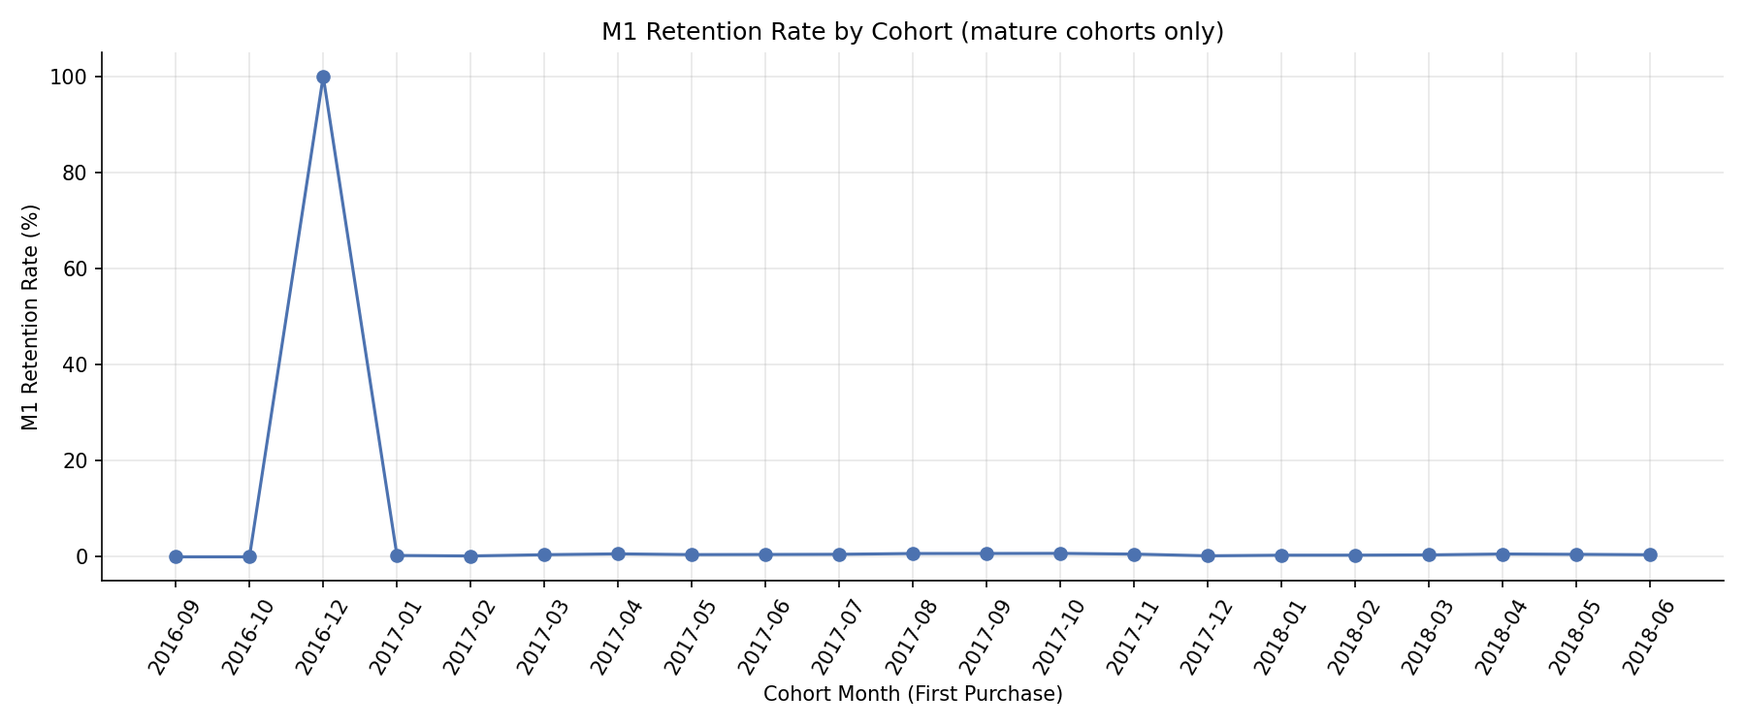
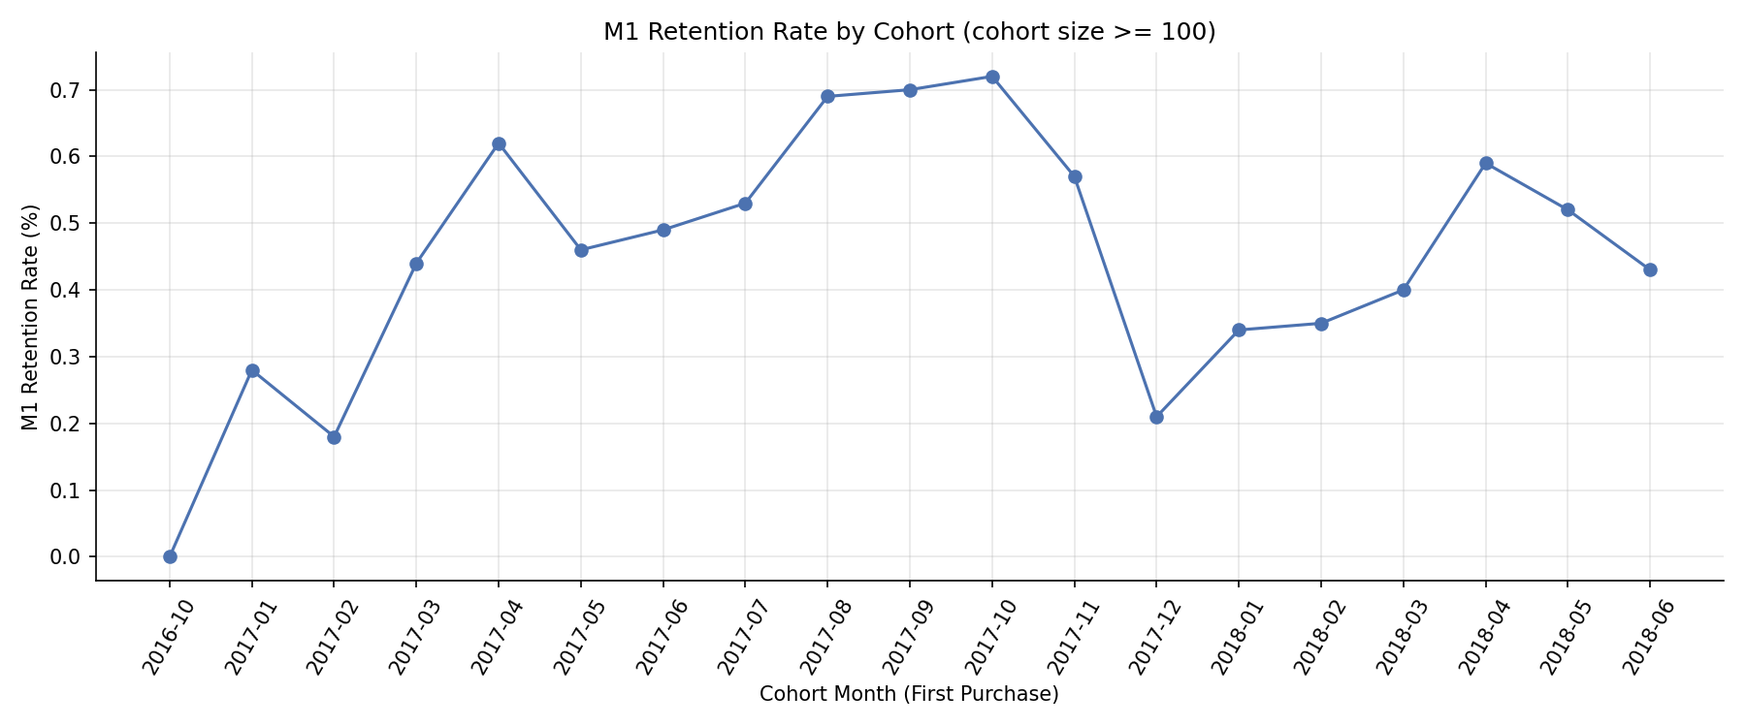
fix: align release artifacts and remove exposed credential

diff --git a/run_pipeline.py b/run_pipeline.py
@@ -64,7 +64,7 @@ def _run_sql_files(*files: str) -> None:
 
 
 def run_build_order_mart() -> None:
-    """阶段 4：构建三张聚合表与订单宽表。"""
+    """构建三张订单级聚合表与订单宽表。"""
     _run_sql_files(
         "04_order_item_aggregation.sql",
         "05_payment_aggregation.sql",
@@ -74,17 +74,17 @@ def run_build_order_mart() -> None:
 
 
 def run_build_customer_mart() -> None:
-    """阶段 5：构建用户粒度特征宽表（依赖阶段 4）。"""
+    """基于订单宽表构建客户粒度特征宽表。"""
     _run_sql_files("08_build_customer_feature_mart.sql")
 
 
 def run_segmentation() -> None:
-    """阶段 6：RFM 与多维标签分层（依赖阶段 5）。"""
+    """基于客户特征构建 RFM 与多维标签分层。"""
     _run_sql_files("09_customer_segmentation.sql")
 
 
 def run_cohort() -> None:
-    """阶段 7：Cohort 留存（SQL 计算 + Python 导出 CSV 与热力图）。"""
+    """计算 Cohort 留存，并导出 CSV 与热力图。"""
     _run_sql_files("10_cohort_retention.sql")
     from src import analyze_cohort
 
@@ -94,7 +94,7 @@ def run_cohort() -> None:
 
 
 def run_delivery() -> None:
-    """阶段 8：履约体验分析（SQL 聚合 + Python 统计检验）。"""
+    """执行履约体验聚合与统计检验。"""
     _run_sql_files("11_delivery_experience.sql")
     from src import analyze_delivery
 
@@ -113,7 +113,7 @@ def run_repeat_purchase_90d() -> None:
 
 
 def run_campaign() -> None:
-    """阶段 9：营销人群名单（SQL 规则级联 + Python 导出 CSV）。"""
+    """按规则级联构建营销人群名单并导出 CSV。"""
     _run_sql_files("12_campaign_target_list.sql")
     from src import export_outputs
 
@@ -123,7 +123,7 @@ def run_campaign() -> None:
 
 
 def run_export() -> None:
-    """阶段 10：12 张 Python 图表 + 高价值流失名单 + Tableau 数据。"""
+    """导出 Python 图表、高价值流失名单和 Tableau 数据。"""
     from src import build_visuals, export_outputs
 
     rc = export_outputs.main(["--churn", "--tableau"])
@@ -143,19 +143,18 @@ def run_validate_data() -> None:
     if rc != 0:
         raise RuntimeError("validate_data 交叉验证存在失败项")
 
-# 阶段注册表：名称 -> 执行函数。尚未实现的阶段值为 None，运行时会明确报错，
-# 而不是静默跳过或产出虚构结果。
+# 阶段注册表：名称 -> 执行函数。尚未实现的阶段值为 None，运行时明确报错。
 STAGE_REGISTRY: dict[str, Callable[[], None] | None] = {
-    "load_data": lambda: load_data.main(),      # 阶段 3：CSV → MySQL 导入
+    "load_data": lambda: load_data.main(),        # CSV → MySQL 导入
     "validate_data": run_validate_data,           # 质量检查 + 交叉验证
-    "build_order_mart": run_build_order_mart,    # 阶段 4：订单粒度宽表
-    "build_customer_mart": run_build_customer_mart,  # 阶段 5：用户粒度宽表
-    "segmentation": run_segmentation,              # 阶段 6：用户标签与生命周期
-    "cohort": run_cohort,                          # 阶段 7：Cohort 留存
-    "delivery": run_delivery,                      # 阶段 8：履约体验分析
+    "build_order_mart": run_build_order_mart,      # 订单粒度宽表
+    "build_customer_mart": run_build_customer_mart,  # 用户粒度宽表
+    "segmentation": run_segmentation,              # 用户标签与生命周期
+    "cohort": run_cohort,                          # Cohort 留存
+    "delivery": run_delivery,                      # 履约体验分析
     "repeat_purchase_90d": run_repeat_purchase_90d,  # 首购后 90 天二购驱动
-    "campaign": run_campaign,                      # 阶段 9：营销人群名单
-    "export": run_export,                          # 阶段 10：图表与 Tableau 输出
+    "campaign": run_campaign,                      # 营销人群名单
+    "export": run_export,                          # 图表与 Tableau 输出
 }
 
 
@@ -227,9 +226,7 @@ def run_stage(stage_name: str) -> int:
         return 2
     func = STAGE_REGISTRY[stage_name]
     if func is None:
-        logger.error(
-            "阶段 %s 尚未实现。本项目按阶段推进，不生成任何虚构结果。", stage_name
-        )
+        logger.error("阶段 %s 尚未实现。", stage_name)
         return 1
     logger.info("开始执行阶段：%s", stage_name)
     func()

diff --git a/src/utils.py b/src/utils.py
@@ -13,12 +13,12 @@ from __future__ import annotations
 from datetime import date, datetime, timedelta
 from typing import Any, Sequence
 
-# ---------- 生命周期阈值（Brief 10.3 初始规则，未调整） ----------
+# ---------- 生命周期规则阈值 ----------
 NEW_CUSTOMER_RECENCY_MAX = 30
 ACTIVE_RECENCY_MAX = 90
 AT_RISK_RECENCY_MAX = 180
 
-# 低评分阈值（Brief 8.4）
+# 低评分阈值
 LOW_SCORE_THRESHOLD = 2
 
 
@@ -55,7 +55,7 @@ def classify_lifecycle(recency_days: int, order_count: int) -> str:
 
 
 def assign_value_segment(total_payment: float, p20: float, p80: float) -> str:
-    """价值标签（Brief 10.2）：>= p80 高价值，>= p20 中价值，否则低价值。"""
+    """价值标签：>= p80 高价值，>= p20 中价值，否则低价值。"""
     if total_payment >= p80:
         return "high_value"
     if total_payment >= p20:
@@ -90,7 +90,7 @@ def is_delayed(delivered_date: Any, estimated_date: Any) -> bool | None:
 
 
 def classify_delay_bucket(delayed: bool | None, delay_days: int | None) -> str | None:
-    """延迟分段（阶段 8 口径，含当天超时归入 1-3 天档）。"""
+    """延迟分段；当天超时归入 1-3 天档。"""
     if delayed is None:
         return None
     if not delayed:
@@ -160,7 +160,7 @@ def campaign_rule_hit(
 
 
 def aggregate_order_items(prices: Sequence[float], freights: Sequence[float]) -> dict[str, float]:
-    """订单商品行聚合（阶段 4 口径）：goods/freight/item 三个金额。"""
+    """订单商品行聚合：goods/freight/item 三个金额。"""
     if len(prices) != len(freights):
         raise ValueError("prices 与 freights 长度不一致")
     goods = round(sum(prices), 2)
@@ -173,5 +173,5 @@ def aggregate_order_items(prices: Sequence[float], freights: Sequence[float]) ->
 
 
 def derive_analysis_date(max_valid_purchase_date: Any) -> date:
-    """analysis_date = 最大有效购买日期 + 1 天（Brief 3.1）。"""
+    """analysis_date = 最大有效购买日期 + 1 天。"""
     return to_date(max_valid_purchase_date) + timedelta(days=1)

diff --git a/src/build_visuals.py b/src/build_visuals.py
@@ -1,7 +1,7 @@
-"""Python 图表生成模块（Brief 第 15 节要求的 12 张图）。
+"""Python 核心分析图表生成模块（图 01–12）。
 
 口径约束：
-- 所有数值直接来自 MySQL 各阶段产出表，与 SQL 口径一致，不使用虚构数据；
+- 所有数值读取 MySQL 建模产出表，与 SQL 指标口径一致；
 - 图表文字使用英文（避免 matplotlib 中文字体缺失），说明性文字留在 README；
 - 图片统一保存至 outputs/figures/。
 
@@ -173,7 +173,8 @@ def fig05_segment_distribution(config: dict, out_dir: Path) -> None:
     df["label"] = df["final_segment"].map(name_map)
     fig, ax = plt.subplots(figsize=(10, 5.5))
     ax.barh(df["label"][::-1], df["cnt"][::-1], color="#4c72b0")
-    ax.set_title("Final Customer Segment Distribution (93,358 customers)")
+    customer_count = int(df["cnt"].sum())
+    ax.set_title(f"Final Customer Segment Distribution ({customer_count:,} customers)")
     ax.set_xlabel("Customer Count")
     for i, v in enumerate(df["cnt"][::-1]):
         ax.text(v, i, f" {v:,}", va="center", fontsize=9)
@@ -193,7 +194,8 @@ def fig07_m1_trend(config: dict, out_dir: Path) -> None:
     df = q(
         config,
         "SELECT cohort_month, ROUND(retention_rate * 100, 2) AS m1_retention_pct, cohort_size "
-        "FROM cohort_retention_long WHERE month_index = 1 ORDER BY cohort_month",
+        "FROM cohort_retention_long "
+        "WHERE month_index = 1 AND cohort_size >= 100 ORDER BY cohort_month",
     )
     fig, ax = plt.subplots(figsize=(12, 5))
     ax.plot(
@@ -202,7 +204,7 @@ def fig07_m1_trend(config: dict, out_dir: Path) -> None:
         marker="o",
         color="#4c72b0",
     )
-    ax.set_title("M1 Retention Rate by Cohort (mature cohorts only)")
+    ax.set_title("M1 Retention Rate by Cohort (cohort size >= 100)")
     ax.set_xlabel("Cohort Month (First Purchase)")
     ax.set_ylabel("M1 Retention Rate (%)")
     ax.tick_params(axis="x", rotation=60)

diff --git a/src/export_outputs.py b/src/export_outputs.py
@@ -1,15 +1,10 @@
 """分析结果导出模块。
 
-阶段 9 职责：
-1. 导出营销人群名单 mart_campaign_target_list 为 CSV；
-2. 生成模拟触达任务表（明确标注 SIMULATED，仅演示排期，
-   本项目未实现真实触达系统——Brief 第 12 节约束）。
-
-后续阶段 10 将在本模块继续扩展图表与 Tableau 数据导出。
-阶段 10 职责：
-3. 导出高价值流失客户名单（Brief 11.3）；
-4. 导出 Tableau 汇总数据：中间表进入本地目录，最终展示表进入 outputs/tableau/；
-5. 客户级名单与模拟任务统一进入 outputs/local/，不提交到 GitHub。
+职责：
+1. 导出营销人群名单和高价值流失客户名单；
+2. 生成明确标注为 SIMULATED 的演示排期，不代表真实触达；
+3. 导出 Tableau 汇总数据：中间表进入本地目录，最终展示表进入 outputs/tableau/；
+4. 客户级名单与模拟任务统一写入 outputs/local/。
 
 使用方式：
     python -m src.export_outputs --campaign
@@ -183,7 +178,7 @@ def export_simulated_tasks(config: dict) -> Path:
 
 
 def export_high_value_churned(config: dict) -> Path:
-    """导出高价值流失客户名单（Brief 11.3）并输出汇总指标。"""
+    """导出高价值流失客户名单并输出汇总指标。"""
     engine = _get_engine(config)
     try:
         with engine.connect() as conn:

diff --git a/src/analyze_delivery.py b/src/analyze_delivery.py
@@ -6,11 +6,11 @@
 3. 卡方检验：延迟与否 × 低评分与否的关联性；
 4. Mann–Whitney U 检验：准时组与延迟组评分分布差异（评分为有序分类，
    不满足正态假设，故用非参数检验）；
-5. 控制类别/地区/订单金额的逻辑回归（Brief 11.4 可选项）：
-   验证排除混淆后延迟与低评分的关联是否依然存在；
+5. 控制类别、地区与订单金额的逻辑回归：
+   检查控制已观测变量后延迟与低评分的关联是否依然存在；
 6. 导出 outputs/tables/delivery_experience_summary.csv。
 
-结论表述约束（Brief 11.4）：
+结论表述约束：
 只能说"配送延迟与较低评分显著相关"，不得断言因果——
 观察性数据无法排除混淆因素（如偏远地区同时导致延迟与商品结构差异）。
 

diff --git a/src/load_data.py b/src/load_data.py
@@ -7,7 +7,7 @@
 4. 导入完成后输出行数校验。
 
 导入策略：
-- 使用 LOAD DATA LOCAL INFILE（速度最快）；
+- 当前入口使用 pandas 解析 CSV，并通过 executemany 分批写入；
 - translation.csv 表头无引号（其余 8 个有引号），分别处理；
 - order_items / order_payments 存在一单多行，不做去重，由后续 SQL 聚合。
 

diff --git a/src/validate_data.py b/src/validate_data.py
@@ -1,4 +1,4 @@
-"""SQL × Python 交叉验证模块（Brief 16.3）。
+"""SQL × Python 交叉验证模块。
 
 对 11 个关键指标分别用 SQL 与 Python（pandas）独立计算并比对：
     总客户数、有效订单数、一次性购买用户占比、复购率、总支付金额、

diff --git a/docs/data_quality_report.md b/docs/data_quality_report.md
@@ -6,7 +6,7 @@
 ## 执行说明
 
 ```bash
-mysql -u root -pyour_mysql_password olist_ecommerce < sql/03_data_quality_checks.sql
+mysql -u your_mysql_user -p olist_ecommerce < sql/03_data_quality_checks.sql
 ```
 
 ---
@@ -19,7 +19,7 @@ mysql -u root -pyour_mysql_password olist_ecommerce < sql/03_data_quality_checks
 | orders | 99,441 | 99,441 | ✓ 完全一致 |
 | order_items | 112,650 | 112,650 | ✓ 完全一致 |
 | order_payments | 103,886 | 103,886 | ✓ 完全一致 |
-| order_reviews | 98,410 | 99,224（实际记录数） | CSV 物理行数 104,719 被评价文本内嵌换行符抬高；实际 789 个 review_id 各出现 2 次（814 条多余行），INSERT IGNORE 跳过 |
+| order_reviews | 98,410 | 99,224（实际记录数） | CSV 物理行数 104,719 被评价文本内嵌换行符抬高；789 个重复 review_id 中，764 个出现 2 次、25 个出现 3 次，共 814 条多余记录，INSERT IGNORE 跳过 |
 | products | 32,951 | 32,951 | ✓ 完全一致 |
 | sellers | 3,095 | 3,095 | ✓ 完全一致 |
 | geolocation | 1,000,163 | 1,000,163 | ✓ 完全一致 |
@@ -36,9 +36,9 @@ mysql -u root -pyour_mysql_password olist_ecommerce < sql/03_data_quality_checks
 | A3 | sellers.seller_id 唯一性 | 3,095 | 3,095 | 0 | 无需处理 | 否 |
 | A4 | customers.customer_id 唯一性 | 99,441 | 99,441 | 0 | 无需处理 | 否 |
 | A5 | customer_unique_id ↔ customer_id 多对一（复购客户）| 99,441 | 96,096 | 2,997 个真实客户有复购记录（产生 3,345 个多余 customer_id） | 正常现象，复购识别核心依据 | 否 |
-| A6 | reviews.review_id 唯一性（导入后） | 98,410 | 98,410 | 0 | CSV 中 789 个 review_id 各出现 2 次（同一条评价挂到两个订单），导入时 INSERT IGNORE 保留首条 | 否 |
+| A6 | reviews.review_id 唯一性（导入后） | 98,410 | 98,410 | 0 | CSV 中 789 个 review_id 重复（764 个出现 2 次、25 个出现 3 次），导入时 INSERT IGNORE 保留首条 | 否 |
 
-**A1-A6 口径说明**：A5 为正常业务现象（同一真实客户多次下单生成多个 customer_id）；真实复购客户 2,997 人（占 96,096 个客户的 3.12%），3,345 为多余 customer_id 数（一人下 3 单贡献 2 个多余 ID），两者不可混淆。A6 发现 789 个 review_id 各关联两个不同订单：经核实每对除 order_id 外所有字段完全一致、100% 属同一真实客户、98.5% 两单购买时间相差≤30天，判定为同一评价问卷被平台关联到多笔订单（非用户重复提交，因为重复提交会产生不同 review_id 与时间戳）；导入时 INSERT IGNORE 保留首条，被丢弃的 814 行已留档至 `data/interim/dropped_duplicate_reviews.csv` 供审计。另注意：CSV 物理行数（104,719）不等于记录数（99,224），因为部分评价文本含内嵌换行符，统计行数时必须用 CSV 解析器而非 wc -l。
+**A1-A6 口径说明**：A5 为正常业务现象（同一真实客户多次下单生成多个 customer_id）；真实复购客户 2,997 人（占 96,096 个客户的 3.12%），3,345 为多余 customer_id 数（一人下 3 单贡献 2 个多余 ID），两者不可混淆。A6 发现 789 个重复 review_id：764 个出现 2 次、25 个出现 3 次，共 814 条多余记录。重复组除 order_id 外字段一致，且关联至同一 customer_unique_id；该模式与同一评价问卷关联多笔订单的解释相容，但不能据此确认平台内部机制。导入时 INSERT IGNORE 保留每个 review_id 的首条记录，被丢弃的 814 行已留档至 `data/interim/dropped_duplicate_reviews.csv` 供审计。另注意：CSV 物理行数（104,719）不等于记录数（99,224），因为部分评价文本含内嵌换行符，统计行数时必须用 CSV 解析器而非 wc -l。
 
 ---
 
@@ -117,9 +117,9 @@ mysql -u root -pyour_mysql_password olist_ecommerce < sql/03_data_quality_checks
 | --- | --- | --- | --- | --- | --- | --- |
 | E1 | order_items.price <= 0 | 112,650 | 0 | 0.00% | 无需处理 | 是 |
 | E2 | order_items.freight_value < 0 | 112,650 | 0 | 0.00% | 无需处理 | 是 |
-| E3 | payments.payment_value <= 0 | 103,886 | 9 | 0.01% | 排除 9 条后统计 | 否 |
+| E3 | payments.payment_value <= 0 | 103,886 | 9 | 0.01% | 保留并记录；当前支付聚合未额外过滤（0 值不改变金额合计） | 否 |
 | E4 | payments.payment_installments < 0 | 103,886 | 0 | 0.00% | 无需处理 | 否 |
-| E5 | products.product_weight_g <= 0 | 32,949 | 4 | 0.01% | 排除 4 件后统计 | 否 |
+| E5 | products.product_weight_g <= 0 | 32,949 | 4 | 0.01% | 保留并记录；商品重量不进入核心分析 | 否 |
 
 ---
 
@@ -134,7 +134,7 @@ mysql -u root -pyour_mysql_password olist_ecommerce < sql/03_data_quality_checks
 | F5 | order_items.product_id → products（商品无维度） | 112,650 | 0 | 0.00% | 无需处理 | 否 |
 | F6 | products.category 无翻译 | 32,951 | 13 | 0.04% | 保留原葡萄牙语类别名 | 否 |
 
-**关联完整性结论**：全部 9 张表关联完整性为 100%，无孤立记录。
+**关联完整性结论**：F1–F5 的核心订单、客户、商品及评价关联均无孤立记录；F6 另有 13 个商品类别没有英文翻译，按规则保留原葡萄牙语类别名。
 
 ---
 
@@ -155,19 +155,18 @@ mysql -u root -pyour_mysql_password olist_ecommerce < sql/03_data_quality_checks
 
 ### ✓ 通过项
 - 全部主键唯一性（orders、products、sellers、customers、reviews 均无重复）
-- 关联完整性 100%（无孤立记录）
-- 全部金额字段无负值/零值异常（除 9 条支付金额异常，已排除）
-- 时间逻辑整体正常（99.98% 的 delivered 订单履约链路无误）
+- F1–F5 核心关联无孤立记录；F6 有 13 个商品类别缺少英文翻译
+- 商品价格与运费没有非正/负值异常；9 条非正支付记录保留并记录
+- D1、D4、D5 未发现时间倒挂；D2 有 1,350 条（1.40%）、D3 有 23 条（0.02%）异常并分别记录
 
 ### ⚠ 需关注项
 - **D2 时间链路异常**：1,350 条 delivered 订单审批时间晚于交付承运商（1.40%），但不影响 delivery_days/delay_days（这两个指标不用审批/承运商时间），仅在文档记录
-- **review_id 重复**：789 个评价问卷各被关联到同一客户的两笔订单，INSERT IGNORE 保留首条，丢弃行已留档审计；另有 243 个订单存在同单 2 条评价（取最高分处理）
+- **review_id 重复**：789 个重复 ID 中，764 个出现 2 次、25 个出现 3 次；INSERT IGNORE 保留首条，814 条多余记录已留档审计；另有 243 个订单存在同单 2 条评价（取最高分处理）
 - **A5 一次性购买比例高**：96,096 个真实客户中仅 2,997 人有复购（3.12% 复购率），需在 RFM 分析中特别处理
 
 ### 数据质量结论
 
-> 整体数据质量良好，9 张表关联完整性为 100%，核心分析所需的 delivered 订单有 96,478 笔，
-> 导入后的主键唯一性与关联完整性检查通过，质量检查记录为订单宽表构建提供依据。
+> 整体数据质量良好，核心订单、客户、商品和评价关联无孤立记录；13 个商品类别缺少英文翻译并按规则保留原类别名。核心分析所需的 delivered 订单有 96,478 笔，导入后的主键唯一性检查通过，质量检查记录为订单宽表构建提供依据。
 
 ---
 
@@ -180,5 +179,5 @@ mysql -u root -pyour_mysql_password olist_ecommerce < sql/03_data_quality_checks
 | 复购分析基于 customer_unique_id | customer_id 是订单级标识，同一客户多单会生成多个 ID | 全部用户分层指标 |
 | D2/D3 时间链路异常不排除 | delivery_days/delay_days 不使用审批/承运商时间，1,350+23 条异常订单签收与预计时间完整，不影响核心延迟指标；仅在文档记录，供后续处理时效分析时参考 | 无（若扩展时效分析需重新评估） |
 | 同单多评价取最高分 | 243 个订单存在重复评价，需明确聚合口径 | 履约体验标签 |
-| review_id 重复行使用 INSERT IGNORE 跳过 | 789 个 review_id 各挂两个订单（同一评价问卷），PK 约束阻止重复导入；丢弃行留档 data/interim/dropped_duplicate_reviews.csv | 评价分析样本量 |
+| review_id 重复行使用 INSERT IGNORE 跳过 | 789 个重复 review_id（764 个出现 2 次、25 个出现 3 次），PK 约束阻止重复导入；814 条多余记录留档 data/interim/dropped_duplicate_reviews.csv | 评价分析样本量 |
 | CSV 行数统计必须用 CSV 解析器 | 评价文本含内嵌换行符，wc -l 会把记录数抬高 5,495（物理行数 ≠ 记录数） | 所有导入行数校验 |

diff --git a/docs/data_dictionary.md b/docs/data_dictionary.md
@@ -1,7 +1,7 @@
 # 数据字典（Data Dictionary）
 
 > 依据本地 `data/raw/` 中 9 个 CSV 文件的实际表头与抽样检查编写。
-> 行数为 CSV 数据行数（不含表头），由本地 `wc -l` 统计。
+> 行数为 CSV 解析后的数据记录数（不含表头）；含内嵌换行或文件末尾无换行时，不以 `wc -l` 代替记录数。
 
 ## 表关系总览
 
@@ -103,14 +103,14 @@ sellers.seller_zip_code_prefix         -> geolocation.geolocation_zip_code_prefi
 | payment_installments | INT | 分期数 |
 | payment_value | DECIMAL(10,2) | 支付金额（BRL） |
 
-- 数据质量风险：存在无支付记录的订单（行数少于订单数，需在质量检查中确认缺失订单状态）；支付总额与商品+运费总额可能存在差异，不得假设二者相等。
+- 数据质量风险：103,886 条支付记录覆盖 99,440 笔订单，另有 1 笔订单无支付记录；支付总额与商品+运费总额可能存在差异，不得假设二者相等。
 - 是否进入核心分析：**是**（金额与支付行为指标来源）。
 
 ## 5. order_reviews（订单评价表）
 
 - 来源文件：`olist_order_reviews_dataset.csv`
 - 数据行数：CSV 实际记录 99,224 条（物理行数 104,719 被评价文本内嵌换行符抬高，统计需用 CSV 解析器）
-- 数据粒度：一行一条评价（评价数多于订单数，可能存在重复评价）
+- 数据粒度：一行一条评价；99,224 条原始记录中既有重复 `review_id`，也可能同单多评价
 - 主键：`review_id`（需在质量检查中验证唯一性）
 - 外键：`order_id -> orders.order_id`
 
@@ -124,7 +124,7 @@ sellers.seller_zip_code_prefix         -> geolocation.geolocation_zip_code_prefi
 | review_creation_date | DATETIME | 评价问卷创建时间 |
 | review_answer_timestamp | DATETIME | 用户提交评价时间 |
 
-- 数据质量风险：评价行数多于订单行数，同一订单可能有多条评价（聚合规则需在指标文档明确）；评论文本字段空值率高。
+- 数据质量风险：同一订单可能有多条评价，且原始文件存在重复 `review_id`（导入与聚合规则需在指标文档明确）；评论文本字段空值率高。
 - 是否进入核心分析：**是**（满意度与履约体验分析核心）。
 
 ## 6. products（商品表）
@@ -190,7 +190,7 @@ sellers.seller_zip_code_prefix         -> geolocation.geolocation_zip_code_prefi
 ## 9. translation（类别翻译表）
 
 - 来源文件：`product_category_name_translation.csv`
-- 数据行数：70
+- 数据行数：71
 - 数据粒度：一行一个类别翻译
 - 主键：`product_category_name`
 - 外键：无（被 `products.product_category_name` 引用）

diff --git a/PROJECT_RELEASE_CHECKLIST.md b/PROJECT_RELEASE_CHECKLIST.md
@@ -41,7 +41,8 @@
 - [x] 原始数据需从[数据来源](data/README.md)另行下载；完整客户名单、中间结果与诊断由流程生成。
 - [x] `.gitignore` 覆盖 `data/raw/*`、`*.csv`、`.env`、`*.pyc`、`.ipynb_checkpoints/`、本地配置、日志与 `outputs/local/`。
 - [x] 汇总 CSV、分析图、最终工作簿和截图按明确文件规则纳入版本控制。
-- [x] 待发布文件不包含真实数据库凭据、访问令牌或私钥；无超过 10 MB 的文件。
+- [x] 当前待发布文件已移除已知数据库凭据、访问令牌和私钥；无超过 10 MB 的文件。
+- [ ] 已暴露的数据库密码完成轮换；远端旧提交与缓存处置完成并复核。
 - [x] 项目代码采用 [MIT License](LICENSE)；Olist 数据及其改编结果遵循 CC BY-NC-SA 4.0，详见[数据许可说明](data/README.md)。
 
 ## 验证方式

diff --git a/docs/resume_metrics.md b/docs/resume_metrics.md
@@ -25,7 +25,7 @@
 - 延迟订单低评分率 53.99%，准时订单仅 9.15%；
 - 控制州、类别、订单金额后，延迟订单出现低评分的赔率比 OR = 11.35（95% CI 10.78–11.95，p<0.001）；
 - 控制州、主品类、首购月份及其他首单特征后，多商品首单与 90 天二购呈正向关联（OR=1.4099，95% CI 1.1349–1.7515，p=0.0019）；首单低评分与二购呈负向关联（OR=0.7371，95% CI 0.5835–0.9311，p=0.0105）；
-- 质量检查 36 项全覆盖：主键/空值/枚举/时间逻辑/数值/关联完整性/多重记录；
+- 质量检查 34 项全覆盖：主键/空值/枚举/时间逻辑/数值/关联完整性/多重记录；
 - 数据勾稽：订单宽表金额、用户宽表订单数、支付总额（15,422,461.77 BRL）聚合前后精确一致。
 
 ## 项目摘要示例（LaTeX）
